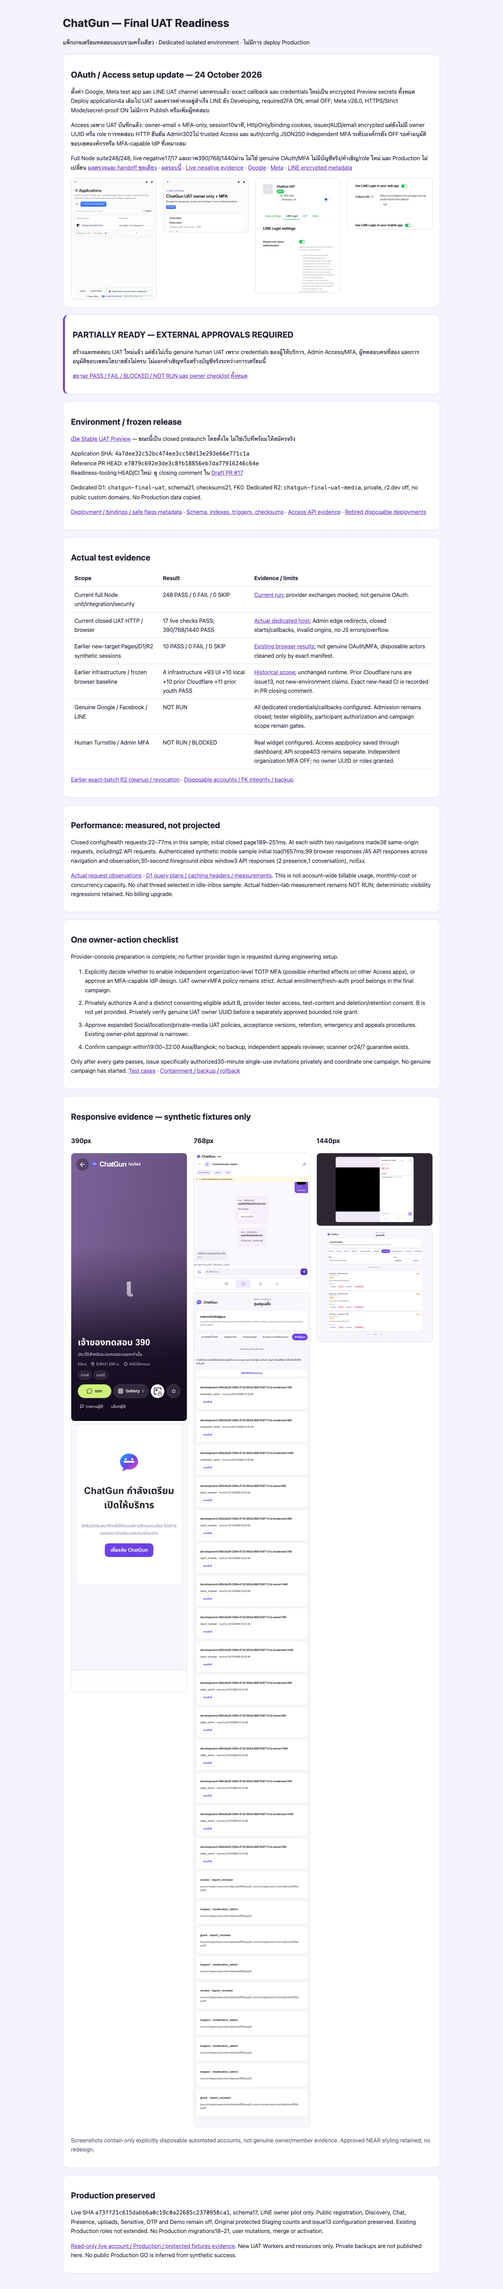
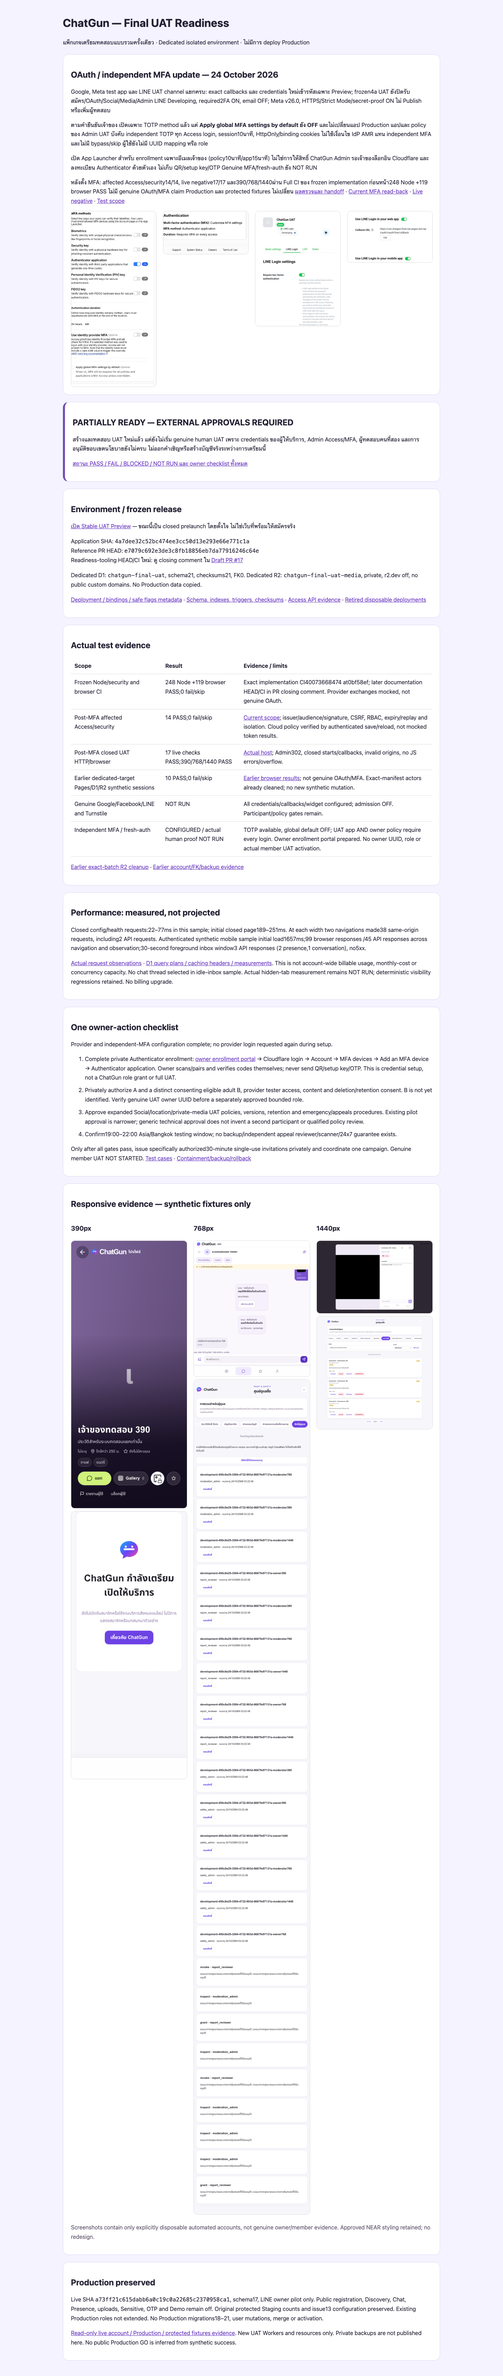
Record owner-approved independent TOTP enforcement and secure enrollment handoff

Changed region(s): [[0.125, 0.0, 0.875, 0.9355], [0.125, 0.9355, 0.8125, 0.9979]]

diff --git a/docs/final-uat/readiness-report.html b/docs/final-uat/readiness-report.html
@@ -1,10 +1,10 @@
 <!doctype html><html lang="th"><meta charset="utf-8"><meta name="viewport" content="width=device-width,initial-scale=1"><title>ChatGun · Final UAT Readiness</title><style>body{margin:0;background:#f5f3ff;color:#242033;font:16px/1.65 system-ui,sans-serif}main{max-width:1080px;margin:auto;padding:24px}section{background:white;border:1px solid #ddd5f4;border-radius:16px;padding:22px;margin:20px 0}h1,h2{line-height:1.3}a{color:#6534be;overflow-wrap:anywhere}code{overflow-wrap:anywhere}img{max-width:100%;border:1px solid #ddd;border-radius:10px}.status{border-left:6px solid #7450b2}table{border-collapse:collapse;width:100%}td,th{text-align:left;padding:10px;border-bottom:1px solid #ddd;vertical-align:top}.scroll{overflow:auto}.images{display:grid;grid-template-columns:repeat(auto-fit,minmax(220px,1fr));gap:20px}.note{color:#655b72}li{margin:10px 0}</style><main>
 <h1>ChatGun — Final UAT Readiness</h1><p>แพ็กเกจเตรียมทดสอบแบบรวมครั้งเดียว · Dedicated isolated environment · ไม่มีการ deploy Production</p>
-<section><h2>OAuth / Access setup update — 24 October 2026</h2><p>ตั้งค่า Google, Meta test app และ LINE UAT channel แยกครบแล้ว: exact callback และ credentials ใหม่เป็น encrypted Preview secrets ทั้งหมด Deploy application4a เดิมไป UAT และตรวจค่าคงอยู่สำเร็จ LINE ยัง Developing, required2FA ON, email OFF; Meta v26.0, HTTPS/Strict Mode/secret-proof ON ไม่มีการ Publish หรือเพิ่มผู้ทดสอบ</p><p>Access เฉพาะ UAT บันทึกแล้ว: owner-email + MFA-only, session10นาที, HttpOnly/binding cookies, issuer/AUD/email encrypted แต่ยังไม่มี owner UUID หรือ role การทดสอบ HTTP ยืนยัน Admin302ไป trusted Access และ auth/config JSON200 Independent MFA ระดับองค์กรยัง OFF รอคำอนุมัติขอบเขตองค์กรหรือ MFA-capable IdP ที่เหมาะสม</p><p>Full Node suite248/248, live negative17/17 และภาพ390/768/1440ผ่าน ไม่ใช่ genuine OAuth/MFA ไม่มีบัญชีจริง/คำเชิญ/role ใหม่ และ Production ไม่เปลี่ยน <a href="oauth-access-setup/status.md">ผลตรวจและ handoff ชุดเดียว</a> · <a href="oauth-access-setup/configuration-verification.json">ผลรอบนี้</a> · <a href="oauth-access-setup/live-negative-security.json">Live negative evidence</a> · <a href="oauth-access-setup/google-credential-metadata.json">Google</a> · <a href="oauth-access-setup/facebook-credential-metadata.json">Meta</a> · <a href="oauth-access-setup/line-credential-metadata.json">LINE encrypted metadata</a></p><div class="images"><img alt="Created dedicated UAT Access application" src="oauth-access-setup/access-application-created.jpg"><img alt="Saved owner-only MFA policy" src="oauth-access-setup/access-policy-mfa-only.jpg"><img alt="New LINE UAT Developing and required two-factor setting" src="oauth-access-setup/line-uat-developing-2fa.jpg"><img alt="Exact saved LINE UAT callback" src="oauth-access-setup/line-uat-callback.jpg"></div></section>
+<section><h2>OAuth / independent MFA update — 24 October 2026</h2><p>Google, Meta test app และ LINE UAT channel แยกครบ: exact callbacks และ credentials ใหม่เข้ารหัสเฉพาะ Preview; frozen4a UAT ยังปิดรับสมัคร/OAuth/Social/Media/Admin LINE Developing, required2FA ON, email OFF; Meta v26.0, HTTPS/Strict Mode/secret-proof ON ไม่ Publish หรือเพิ่มผู้ทดสอบ</p><p>ตามคำยืนยันเจ้าของ เปิดเฉพาะ TOTP method แล้ว แต่ <strong>Apply global MFA settings by default ยัง OFF</strong> และไม่เปลี่ยนแอป Production แอปและ policy ของ Admin UAT บังคับ independent TOTP ทุก Access login, session10นาที, HttpOnly/binding cookies ไม่ใช้เงื่อนไข IdP AMR แทน independent MFA และไม่มี bypass/skip ผู้ใช้ยังไม่มี UUID mapping หรือ role</p><p>เปิด App Launcher สำหรับ enrollment เฉพาะอีเมลเจ้าของ (policy10นาที/app15นาที) ไม่ใช่การให้สิทธิ์ ChatGun Admin รอเจ้าของล็อกอิน Cloudflare และลงทะเบียน Authenticator ด้วยตัวเอง ไม่เก็บ QR/setup key/OTP Genuine MFA/fresh-auth ยัง NOT RUN</p><p>หลังตั้ง MFA: affected Access/security14/14, live negative17/17 และ390/768/1440ผ่าน Full CI ของ frozen implementation ก่อนหน้า248 Node +119 browser PASS ไม่มี genuine OAuth/MFA claim Production และ protected fixtures ไม่เปลี่ยน <a href="oauth-access-setup/status.md">ผลตรวจและ handoff</a> · <a href="oauth-access-setup/mfa-configuration.json">Current MFA read-back</a> · <a href="oauth-access-setup/live-negative-security.json">Live negative</a> · <a href="oauth-access-setup/configuration-verification.json">Test scope</a></p><div class="images"><img alt="TOTP enabled with global default enforcement off" src="oauth-access-setup/mfa-totp-global-default-off.jpg"><img alt="Owner-only independent MFA policy requiring every login" src="oauth-access-setup/mfa-owner-policy-every-login.jpg"><img alt="LINE UAT Developing with required two-factor setting" src="oauth-access-setup/line-uat-developing-2fa.jpg"><img alt="Exact saved LINE UAT callback" src="oauth-access-setup/line-uat-callback.jpg"></div></section>
 <section class="status"><h2>PARTIALLY READY — EXTERNAL APPROVALS REQUIRED</h2><p>สร้างและทดสอบ UAT ใหม่แล้ว แต่ยังไม่เริ่ม genuine human UAT เพราะ credentials ของผู้ให้บริการ, Admin Access/MFA, ผู้ทดสอบคนที่สอง และการอนุมัติขอบเขตนโยบายยังไม่ครบ ไม่ออกคำเชิญหรือสร้างบัญชีจริงระหว่างการเตรียมนี้</p><p><a href="readiness-matrix.md">สถานะ PASS / FAIL / BLOCKED / NOT RUN และ owner checklist ทั้งหมด</a></p></section>
 <section><h2>Environment / frozen release</h2><p><a href="https://uat.chatgun-final-uat.pages.dev">เปิด Stable UAT Preview</a> — ขณะนี้เป็น closed prelaunch โดยตั้งใจ ไม่ใช่เว็บที่พร้อมให้สมัครจริง</p><p>Application SHA: <code>4a7dee32c52bc474ee3cc50d13e293e66e771c1a</code><br>Reference PR HEAD: <code>e7079c692e3de3c8fb18856eb7da77916246c64e</code><br>Readiness-tooling HEAD/CI ใหม่: ดู closing comment ใน <a href="https://github.com/Nattano-CDS/chatgun/pull/17">Draft PR #17</a></p><p>Dedicated D1: <code>chatgun-final-uat</code>, schema21, checksums21, FK0. Dedicated R2: <code>chatgun-final-uat-media</code>, private, r2.dev off, no public custom domains. No Production data copied.</p><p><a href="environment.json">Deployment / bindings / safe flags metadata</a> · <a href="schema-verification.json">Schema, indexes, triggers, checksums</a> · <a href="access-verification.json">Access API evidence</a> · <a href="deployment-retirement.json">Retired disposable deployments</a></p></section>
-<section><h2>Actual test evidence</h2><div class="scroll"><table><tr><th>Scope</th><th>Result</th><th>Evidence / limits</th></tr><tr><td>Current full Node unit/integration/security</td><td>248 PASS / 0 FAIL / 0 SKIP</td><td><a href="oauth-access-setup/configuration-verification.json">Current run</a>; provider exchanges mocked, not genuine OAuth.</td></tr><tr><td>Current closed UAT HTTP / browser</td><td>17 live checks PASS; 390/768/1440 PASS</td><td><a href="oauth-access-setup/live-negative-security.json">Actual dedicated host</a>; Admin edge redirects, closed starts/callbacks, invalid origins, no JS errors/overflow.</td></tr><tr><td>Earlier new-target Pages/D1/R2 synthetic sessions</td><td>10 PASS / 0 FAIL / 0 SKIP</td><td><a href="full-system-cloud-browser.json">Existing browser results</a>; not genuine OAuth/MFA, disposable actors cleaned only by exact manifest.</td></tr><tr><td>Earlier infrastructure / frozen browser baseline</td><td>4 infrastructure +93 UI +10 local +10 prior Cloudflare +11 prior youth PASS</td><td><a href="../development-completion/test-summary.json">Historical scope</a>; unchanged runtime. Prior Cloudflare runs are issue13, not new-environment claims. Exact new-head CI is recorded in PR closing comment.</td></tr><tr><td>Genuine Google / Facebook / LINE</td><td>NOT RUN</td><td>All dedicated credentials/callbacks configured. Admission remains closed; tester eligibility, participant authorization and campaign scope remain gates.</td></tr><tr><td>Human Turnstile / Admin MFA</td><td>NOT RUN / BLOCKED</td><td>Real widget configured. Access app/policy saved through dashboard; API scope403 remains separate. Independent organization MFA OFF; no owner UUID or roles granted.</td></tr></table></div><p><a href="cloud-cleanup.json">Earlier exact-batch R2 cleanup / revocation</a> · <a href="disposable-account-cleanup.json">Disposable accounts / FK integrity / backup</a></p></section>
+<section><h2>Actual test evidence</h2><div class="scroll"><table><tr><th>Scope</th><th>Result</th><th>Evidence / limits</th></tr><tr><td>Frozen Node/security and browser CI</td><td>248 Node +119 browser PASS;0 fail/skip</td><td>Exact implementation CI40073668474 at0bf58ef; later documentation HEAD/CI in PR closing comment. Provider exchanges mocked, not genuine OAuth.</td></tr><tr><td>Post-MFA affected Access/security</td><td>14 PASS;0 fail/skip</td><td><a href="oauth-access-setup/configuration-verification.json">Current scope</a>; issuer/audience/signature, CSRF, RBAC, expiry/replay and isolation. Cloud policy verified by authenticated save/reload, not mocked token results.</td></tr><tr><td>Post-MFA closed UAT HTTP/browser</td><td>17 live checks PASS;390/768/1440 PASS</td><td><a href="oauth-access-setup/live-negative-security.json">Actual host</a>; Admin302, closed starts/callbacks, invalid origins, no JS errors/overflow.</td></tr><tr><td>Earlier dedicated-target Pages/D1/R2 synthetic sessions</td><td>10 PASS;0 fail/skip</td><td><a href="full-system-cloud-browser.json">Earlier browser results</a>; not genuine OAuth/MFA. Exact-manifest actors already cleaned; no new synthetic mutation.</td></tr><tr><td>Genuine Google/Facebook/LINE and Turnstile</td><td>NOT RUN</td><td>All credentials/callbacks/widget configured; admission OFF. Participant/policy gates remain.</td></tr><tr><td>Independent MFA / fresh-auth</td><td>CONFIGURED / actual human proof NOT RUN</td><td>TOTP available, global default OFF; UAT app AND owner policy require every login. Owner enrollment portal prepared. No owner UUID, role or actual member UAT activation.</td></tr></table></div><p><a href="cloud-cleanup.json">Earlier exact-batch R2 cleanup</a> · <a href="disposable-account-cleanup.json">Earlier account/FK/backup evidence</a></p></section>
 <section><h2>Performance: measured, not projected</h2><p>Closed config/health requests:22–77ms in this sample; initial closed page189–251ms. At each width two navigations made38 same-origin requests, including2 API requests. Authenticated synthetic mobile sample initial load1657ms;99 browser responses /45 API responses across navigation and observation;30-second foreground inbox window3 API responses (2 presence,1 conversation), no5xx.</p><p><a href="authenticated-request-observation.json">Actual request observations</a> · <a href="http-browser-verification.json">D1 query plans / caching headers / measurements</a>. This is not account-wide billable usage, monthly-cost or concurrency capacity. No chat thread selected in idle-inbox sample. Actual hidden-tab measurement remains NOT RUN; deterministic visibility regressions retained. No billing upgrade.</p></section>
-<section><h2>One owner-action checklist</h2><p>Provider-console preparation is complete; no further provider login is requested during engineering setup.</p><ol><li>Explicitly decide whether to enable independent organization-level TOTP MFA (possible inherited effects on other Access apps), or approve an MFA-capable IdP design. UAT owner+MFA policy remains strict. Actual enrollment/fresh-auth proof belongs in the final campaign.</li><li>Privately authorize A and a distinct consenting eligible adult B, provider tester access, test-content and deletion/retention consent. B is not yet provided. Privately verify genuine UAT owner UUID before a separately approved bounded role grant.</li><li>Approve expanded Social/location/private-media UAT policies, acceptance versions, retention, emergency and appeals procedures. Existing owner-pilot approval is narrower.</li><li>Confirm campaign within19:00–22:00 Asia/Bangkok; no backup, independent appeals reviewer, scanner or24/7 guarantee exists.</li></ol><p>Only after every gate passes, issue specifically authorized30-minute single-use invitations privately and coordinate one campaign. No genuine campaign has started. <a href="test-cases.md">Test cases</a> · <a href="rollback-plan.md">Containment / backup / rollback</a></p></section>
+<section><h2>One owner-action checklist</h2><p>Provider and independent-MFA configuration complete; no provider login requested again during setup.</p><ol><li>Complete private Authenticator enrollment: <a href="https://tiny-violet-2021.cloudflareaccess.com/AddMfaDevice">owner enrollment portal</a> → Cloudflare login → Account → MFA devices → Add an MFA device → Authenticator application. Owner scans/pairs and verifies codes themselves; never send QR/setup key/OTP. This is credential setup, not a ChatGun role grant or full UAT.</li><li>Privately authorize A and a distinct consenting eligible adult B, provider tester access, content and deletion/retention consent. B is not yet identified. Verify genuine UAT owner UUID before a separately approved bounded role.</li><li>Approve expanded Social/location/private-media UAT policies, versions, retention and emergency/appeals procedures. Existing pilot approval is narrower; generic technical approval does not invent a second participant or qualified policy review.</li><li>Confirm19:00–22:00 Asia/Bangkok testing window; no backup/independent appeal reviewer/scanner/24x7 guarantee exists.</li></ol><p>Only after all gates pass, issue specifically authorized30-minute single-use invitations privately and coordinate one campaign. Genuine member UAT NOT STARTED. <a href="test-cases.md">Test cases</a> · <a href="rollback-plan.md">Containment/backup/rollback</a></p></section>
 <section><h2>Responsive evidence — synthetic fixtures only</h2><div class="images"><div><h3>390px</h3><img loading="lazy" src="synthetic-screens/profile-390.png" alt="Synthetic profile mobile"><img loading="lazy" src="screens/prelaunch-390.png" alt="Actual closed UAT mobile"></div><div><h3>768px</h3><img loading="lazy" src="synthetic-screens/chat-768.png" alt="Synthetic Chat tablet"><img loading="lazy" src="synthetic-screens/admin-member-operations-768.png" alt="Synthetic Admin tablet"></div><div><h3>1440px</h3><img loading="lazy" src="synthetic-screens/public-gallery-1440.png" alt="Synthetic Gallery desktop"><img loading="lazy" src="synthetic-screens/moderation-1440.png" alt="Synthetic moderation desktop"></div></div><p class="note">Screenshots contain only explicitly disposable automated accounts, not genuine owner/member evidence. Approved NEAR styling retained; no redesign.</p></section>
 <section><h2>Production preserved</h2><p>Live SHA <code>a73ff21c615dabb6a0c19c0a22685c2370958ca1</code>, schema17, LINE owner pilot only. Public registration, Discovery, Chat, Presence, uploads, Sensitive, OTP and Demo remain off. Original protected Staging counts and issue13 configuration preserved. Existing Production roles not extended. No Production migrations18–21, user mutations, merge or activation.</p><p><a href="isolation-audit.json">Read-only live account / Production / protected fixtures evidence</a>. New UAT Workers and resources only. Private backups are not published here. No public Production GO is inferred from synthetic success.</p></section></main></html>

diff --git a/docs/final-uat/oauth-access-setup/status.md b/docs/final-uat/oauth-access-setup/status.md
@@ -1,6 +1,6 @@
 # UAT OAuth / Access configuration execution
 
-Application remains frozen at `4a7dee32c52bc474ee3cc50d13e293e66e771c1a`. Starting PR HEAD was `2b16100802b1fe8924ab493d64e6ffd7078033c8`; exact closing HEAD and CI are recorded in the PR closing comment. No Production deployment, migration, account change or role grant.
+Application remains frozen at `4a7dee32c52bc474ee3cc50d13e293e66e771c1a`. Starting PR HEAD was `2b16100802b1fe8924ab493d64e6ffd7078033c8`; exact closing HEAD/CI are in the PR comment. No Production application deployment, migration, member-data change or role grant. The separately approved Cloudflare organization TOTP availability/enrollment-portal changes are documented below; global enforcement stays OFF.
 
 ## Actual status — not a completion claim
 
@@ -12,8 +12,8 @@ Application remains frozen at `4a7dee32c52bc474ee3cc50d13e293e66e771c1a`. Starti
 | Meta | CONFIGURED / human OAuth NOT RUN | Separate **ChatGun UAT**, app1546406076913004, is a test version of parent1136950635489003, not Production1732162668911193. Exact UAT callback persisted alongside inherited callbacks; UAT domain/site URL saved. Client/Web OAuth, enforced HTTPS and Strict Mode ON; embedded/device/JS SDK login OFF. Actual Advanced settings show v26.0; Require app secret/proof enabled and saved. Following owner reauthentication, only the NEW child secret was read privately and stored0600/encrypted Preview. No publication or new roles/testers. Genuine callback/token exchange NOT RUN |
 | LINE | CONFIGURED / human OAuth NOT RUN | Owner completed separate channel2012186357 under ChatGun provider2005640887. ChatGun UAT, LINE Login, Thailand, Developing, Admin ownership, PROFILE/OPENID_CONNECT, email permission Unapplied. Exact UAT callback saved/read back; real UI Require two-factor switch ON. NEW channel ID/secret protected0600/encrypted Preview; old channel2012039306 untouched. No publication/tester invitations or genuine callback |
 | Access API403/code1010 | API still BLOCKED; dashboard saved | Wrangler OAuth scopes have no Access Write/Edit; direct resource GET also403. Authenticated dashboard successfully saved separate UAT policy/app without API token expansion or billing changes |
-| Access dashboard | CONFIGURED / genuine MFA NOT RUN | Created **ChatGun Final UAT Admin**, app c2c866d3-3d41-410b-909f-4beac2683a17; policy8fbef132-a338-4ec4-8c7e-94b29749e0d6. Exact two UAT destinations accepted and read back; session10m. Policy read-back confirms owner email AND Authentication Method `mfa` only (no PIN alternative). HttpOnly and binding-cookie hardening saved; launcher hidden because wildcard-only domains have no launch URL. Anonymous HTTP requests to both Admin paths302 to exact trusted Access team. Public auth/config remains JSON200 |
-| Independent MFA | BLOCKED | Dashboard explicitly says organization MFA not turned on; app-level custom MFA unavailable. Official docs require organization-level enablement first. This is an additional organization-scope decision, not covered by silently changing UAT-only settings |
+| Access dashboard | CONFIGURED / genuine MFA NOT RUN | **ChatGun Final UAT Admin**, app c2c866d3-3d41-410b-909f-4beac2683a17; policy8fbef132-a338-4ec4-8c7e-94b29749e0d6. Exact UAT destinations, session10m, HttpOnly/binding cookies retained. Both app and exact-owner policy now explicitly require independent TOTP every Access login. IdP-only AMR `mfa` selector replaced AFTER independent enforcement was saved/read back; no single-factor or Bypass alternative. Anonymous Admin paths302 to exact trusted team; public auth/config JSON200 |
+| Independent MFA | CONFIGURED / enrollment handoff | Owner instructed proceeding after the explicit organization-scope question. Enabled only TOTP; other methods, IdP-MFA skip, account-wide deny and **Apply global MFA settings by default** remain OFF. App/policy enforcement applies only to UAT. Disabled App Launcher initially blocked device enrollment; configured separate exact-owner enrollment policy b3168995-89e2-4f88-ad2d-9ebf52ba7824, attached ONLY to App Launcher,10m policy/15m app session. Real owner enrollment/pairing and MFA success NOT VERIFIED; no QR/setup key/OTP collected |
 | Admin mapping/roles | NOT RUN | Verified issuer/AUD/owner-email metadata encrypted in UAT Preview and redeployed, but no owner UUID mapped, standalone/moderation OFF and no grant. Genuine UAT UUID must be privately verified and grant scope independently approved; no Production UUID/role copy or extension. Prepared UAT-only role PLAN at most8hours; no executor run |
 | Turnstile | PASS configuration / NOT RUN human | Same dedicated real widget/site key/encrypted secret. Host/action checks unchanged; human challenge deferred to final campaign. No test-bypass keys |
 | Live negative security | PASS |17 checks after Access setup; disabled starts, foreign origins, callbacks, invalid provider/session, two Admin edge redirects and disabled OTP; no users/flows/invitations fabricated |
@@ -21,7 +21,7 @@ Application remains frozen at `4a7dee32c52bc474ee3cc50d13e293e66e771c1a`. Starti
 | Responsive closed UAT | PASS |390/768/1440 actual-host screenshots; zero JS errors/overflow |
 | Genuine OAuth/MFA | NOT RUN | Final human campaign explicitly not started |
 
-Owner replied “ทำเลย” to the consolidated confirmation. Execution was limited to UAT-only credential/Access creation; organization-wide independent MFA was explicitly excluded in the execution commentary because the owner did not select that expanded scope. No Production role, UUID mapping, invitation or account was created. Do not mistake stored credentials, an MFA policy condition or an anonymous Access redirect for genuine provider/MFA success.
+Initial “ทำเลย” authorized UAT-only provisioning; organization settings were then left unchanged. Following the explicit organization-level TOTP scope question, owner said “ทำได้เลยตอนนี้ตามคำแนะนำ”; the execution commentary specified enabling TOTP while preserving Production and roles. TOTP method availability is now ON, but global default enforcement stays OFF. No Production role, ChatGun UUID mapping, invitation or account was created. Stored credentials/policy settings/anonymous redirects are not genuine OAuth/MFA success.
 
 ## Access diagnosis and route inventory
 
@@ -48,7 +48,15 @@ Google JS origin: `https://uat.chatgun-final-uat.pages.dev`. No new test user or
 
 ## Single minimal owner handoff
 
-Provider-console password/agreement steps are complete; no further provider login is requested during preparation. Remaining setup decision: independent organization MFA remains OFF. Explicitly approve enabling organization-level TOTP (potential inherited defaults for other Access apps), or approve an MFA-capable IdP design. The saved UAT owner+MFA policy stays strict, with no single-factor fallback. This decision is not silently included in the narrower UAT-only approval.
+Provider-console password/agreement steps and independent-MFA configuration are complete. One credential-enrollment handoff remains: open `https://tiny-violet-2021.cloudflareaccess.com/AddMfaDevice`, select Cloudflare, authenticate as the owner, then Account → MFA devices → Add an MFA device → Authenticator application. Owner must scan/pair and enter TOTP themselves. Do not send QR, setup key, OTP or recovery information through chat/GitHub. Enrollment does not grant ChatGun roles or start the consolidated member UAT.
+
+## Independent MFA implementation detail
+
+Cloudflare distinguishes **IdP-based MFA** (`Require Authentication Method=mfa`) from **independent MFA** (`mfa_config`). Keeping an IdP-only AMR selector can reject a primary login before an independent factor is evaluated. After saving/reloading mandatory independent TOTP at app AND policy levels, replaced that IdP-only rule; exact-owner Include remains and no MFA-disabled policy was added. Every-login MFA controls the next Access login; it does not replace the backend ten-minute recent-auth guard or prove a fresh signed authentication timestamp. That remains a genuine-event test.
+
+The App Launcher exception is Cloudflare's documented authenticator bootstrap path, not an Admin bypass: its separate policy is owner-only and attached only to App Launcher; it neither maps a ChatGun UUID nor grants a D1 role. The UAT application stays hidden in the launcher, service flags/standalone Admin remain OFF. Global defaults stay OFF, so unrelated apps do not inherit new MFA enforcement.
+
+Sources: [Independent MFA enrollment](https://developers.cloudflare.com/cloudflare-one/access-controls/access-settings/independent-mfa/#enroll-authenticators), [IdP versus independent MFA and every-login duration](https://developers.cloudflare.com/cloudflare-one/access-controls/policies/mfa-requirements/).
 
 ## Saved configuration evidence
 
@@ -56,6 +64,7 @@ Provider-console password/agreement steps are complete; no further provider logi
 - [Meta encrypted metadata](facebook-credential-metadata.json), [LINE encrypted metadata](line-credential-metadata.json), [Access verifier metadata](access-verifier-metadata.json).
 - [LINE Developing / required2FA](line-uat-developing-2fa.jpg), [exact callback](line-uat-callback.jpg).
 - [Meta exact callback and preserved inherited URLs](meta-uat-callback.jpg).
+- [Current independent MFA read-back](mfa-configuration.json), [organization TOTP with global defaults OFF](mfa-totp-global-default-off.jpg), [owner policy every-login enforcement](mfa-owner-policy-every-login.jpg). Initial access-verifier metadata is historical at credential-save time, not current MFA status.
 - [Created Access application](access-application-created.jpg).
 - [MFA-only owner policy](access-policy-mfa-only.jpg).
 - Access issuer: `https://tiny-violet-2021.cloudflareaccess.com`.

diff --git a/docs/final-uat/readiness-matrix.md b/docs/final-uat/readiness-matrix.md
@@ -2,7 +2,7 @@
 
 Decision: **PARTIALLY READY — EXTERNAL APPROVALS REQUIRED**. Genuine human UAT has NOT started. No invitation, genuine account, owner role grant or Production activation was performed in this preparation.
 
-Latest OAuth/Access execution: [configuration status and consolidated handoff](oauth-access-setup/status.md). All THREE dedicated providers have exact callbacks and NEW encrypted Preview credentials, retained through frozen4a UAT redeployment. Owner-only Access saved with MFA-only requirement,10m session, encrypted issuer/AUD/email but NO owner UUID/roles. Independent organization MFA remains OFF pending explicit scope approval. Full Node248/248 and live negative17/17 PASS; no genuine OAuth/MFA campaign started.
+Latest OAuth/Access execution: [configuration status and consolidated handoff](oauth-access-setup/status.md). All THREE providers have exact callbacks and NEW encrypted Preview credentials, retained through frozen4a UAT deployment. TOTP availability enabled after owner confirmation; global default enforcement OFF. UAT app AND exact-owner policy explicitly require TOTP every login,10m Access session. Separate owner-only App Launcher permits device enrollment, not Admin access. No ChatGun owner UUID/roles. Prior full Node248/248 plus latest affected14/14 and live negative17/17 PASS; genuine OAuth/MFA campaign NOT STARTED.
 
 Frozen application: `4a7dee32c52bc474ee3cc50d13e293e66e771c1a`. Initial PR #17 evidence HEAD: `e7079c692e3de3c8fb18856eb7da77916246c64e`. Closing PR comment records the eventual readiness-tooling HEAD and CI result; it is not a new application release.
 
@@ -25,7 +25,7 @@ Frozen application: `4a7dee32c52bc474ee3cc50d13e293e66e771c1a`. Initial PR #17 e
 | Google UAT OAuth | CONFIGURED / actual OAuth NOT RUN | Separate web client created with exact UAT origin/callback, NEW ID/secret encrypted Preview-only. External/Testing and existing test users retained; admission/OAuth OFF |
 | Facebook UAT OAuth | CONFIGURED / genuine OAuth NOT RUN | Test app1546406076913004; exact callback/domain/site URL, HTTPS/Strict Mode, v26.0 and app-secret-proof requirement saved. NEW encrypted Preview credentials; no publication/testers added |
 | LINE UAT OAuth | CONFIGURED / genuine OAuth NOT RUN | New channel2012186357, ChatGun provider Admin, Thailand/Developing, exact callback and required2FA ON, email Unapplied. NEW encrypted Preview credentials; Production channel untouched |
-| Access application / MFA | APP CONFIGURED / genuine MFA BLOCKED | Dashboard creation succeeded despite scoped API403. Exact owner + MFA-only policy, two UAT Admin paths,10m session, HttpOnly+binding cookies saved. Anonymous302 verified. Independent organization MFA OFF; no MFA success claim |
+| Access application / MFA | CONFIGURED / enrollment handoff | Dashboard settings reloaded/read back: independent TOTP every login on app AND owner-only policy,10m session, HttpOnly+binding cookies. Global default OFF; no MFA skip/Bypass. Owner-only launcher enrollment prepared. Anonymous302 verified; no genuine MFA success claim |
 | Exact UAT owner subject / role mapping | BLOCKED | No genuine UAT account yet. Production UUID/roles NOT copied or extended. Exact UAT identity + bounded grant require separate confirmation |
 | Participant A | BLOCKED | Owner is designated; authorized UAT identity/provider eligibility and scope still need confirmation |
 | Participant B | BLOCKED | No separately consenting eligible distinct adult provided. Owner cannot act as both participants |
@@ -48,7 +48,7 @@ Cleanup evidence correction: D1 `meta.changes` reported180 cascade-inclusive wri
 ## Remaining owner actions — one consolidated checklist
 
 1. Provider configuration is complete; no more provider login is requested during preparation. All three NEW credentials are encrypted in dedicated UAT Preview, callback URLs preserved, apps unpublished. Genuine callbacks and participant tester eligibility remain for the coordinated campaign.
-2. Dedicated Access app is saved. Explicitly decide whether to enable independent organization-level TOTP (potential inherited effects on other Access apps) or approve a suitable MFA-capable IdP design. Keep owner+MFA requirement and10-minute privileged-auth guard; no single-factor fallback, Production change or role grant.
+2. Independent TOTP is configured, with global defaults OFF. Owner must complete private authenticator enrollment through the retained Cloudflare App Launcher tab; fresh MFA/auth-time verification is part of the coordinated campaign. No QR/setup-key/OTP sharing, no single-factor fallback, Production change or role grant.
 3. Privately identify and authorize A and a distinct adult B: consent, current eligible age/capacity, provider tester role, test-media consent, deletion/retention scope. Do not post identities publicly.
 4. Approve the specific Social/location/private-media UAT policy package, versions, notices, appeals/emergency procedures and retained test content. Existing owner-pilot approval does not satisfy this item.
 5. Confirm a testing window inside **19:00–22:00 Asia/Bangkok**, daily. No backup/independent appeals reviewer/scanner/24-hour coverage exists. Keep youth/Sensitive admission closed; no response-time guarantee.
